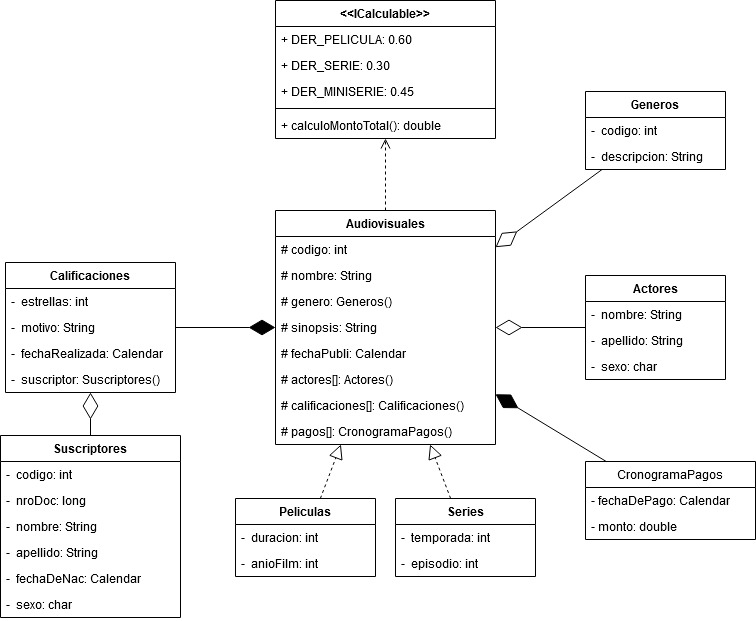
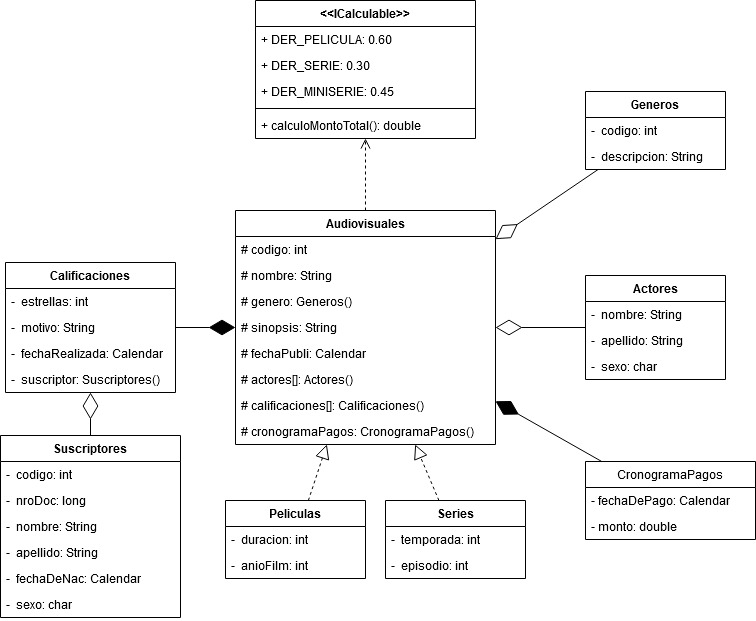
Controllers

diff --git a/src/controller/SuscriptorControlador.java b/src/controller/SuscriptorControlador.java
@@ -38,19 +38,6 @@ public class SuscriptorControlador {
         Json. Este archivo incluye el nombre de la empresa, nombre de la serie, género, nómina de
         actores, sinopsis, temporada, cantidad de episodios y su calificación.*/
 
-        /*TreeSet<Suscriptores> suscriptores = SuscriptoresTXT.bajarSuscriptores();
-        TreeSet<Suscriptores> suscriptoresARecomendar = new TreeSet<Suscriptores>();
-
-        Suscriptores suscriptor;
-        Iterator<Suscriptores> iteratorSuscriptores = suscriptores.iterator();
-        while (iteratorSuscriptores.hasNext()) {
-            suscriptor = iteratorSuscriptores.next();
-            menorA35 = Validaciones.menor(suscriptor.getFechaDeNac(), fechaActual, 35);
-            if (menorA35){
-                suscriptoresARecomendar.add(suscriptor);
-            }
-        }*/
-
         Calendar fechaActual = Calendar.getInstance();
         Calendar fechaAnterior = Validaciones.tresMesesAntes(fechaActual);
 
@@ -63,6 +50,8 @@ public class SuscriptorControlador {
         boolean menorA35;
 
         Audiovisuales mejorAudiovisual = audiovisuales.get(0);
+
+        // Primero recorrer audiovisuales para saber cantidad de episodios por temporada
 
         for (Audiovisuales audiovisual : audiovisuales) {
 
@@ -99,20 +88,6 @@ public class SuscriptorControlador {
         último mes es recomendada a todos los suscriptores mayores de 55 años, mediante otro
         archivo JSon con la estructura similar a la de las series.*/
 
-/*        TreeSet<Suscriptores> suscriptores = SuscriptoresTXT.bajarSuscriptores();
-        TreeSet<Suscriptores> suscriptoresARecomendar = new TreeSet<Suscriptores>();
-
-
-
-        Suscriptores suscriptor;
-        Iterator<Suscriptores> iteratorSuscriptores = suscriptores.iterator();
-        while (iteratorSuscriptores.hasNext()) {
-            suscriptor = iteratorSuscriptores.next();
-            if (Validaciones.mayor(suscriptor.getFechaDeNac(), fechaActual, 55)){
-                suscriptoresARecomendar.add(suscriptor);
-            }
-        }*/
-
         Calendar fechaActual = Calendar.getInstance();
         Calendar fechaAnterior = Validaciones.ultimoMes(fechaActual);
 
@@ -123,6 +98,7 @@ public class SuscriptorControlador {
         int cantidadCalificaciones = 0;
         int promedio;
         int mejorPromedio = -1;
+        boolean mayorA55;
 
         Audiovisuales mejorAudiovisual = audiovisuales.get(0);
 
@@ -136,8 +112,11 @@ public class SuscriptorControlador {
 
                     for (Calificaciones calificacion : audiovisual.getCalificaciones()) {
 
-                        sumaEstrellas += calificacion.getEstrellas();
-                        cantidadCalificaciones++;
+                        mayorA55 = Validaciones.mayor(calificacion.getSuscriptor().getFechaDeNac(), fechaActual, 55);
+                        if (mayorA55) {                                                                                     // Suscriptor es mayor de 55?
+                            sumaEstrellas += calificacion.getEstrellas();
+                            cantidadCalificaciones++;
+                        }
 
                     }
 

diff --git a/src/model/Audiovisuales.java b/src/model/Audiovisuales.java
@@ -12,9 +12,10 @@ public abstract class Audiovisuales implements ICalculable{
     protected Calendar fechaPubli;
     protected TreeSet<Actores> actores;
     protected ArrayList<Calificaciones> calificaciones = new ArrayList<Calificaciones>();
-    protected ArrayList<CronogramaPagos> pagos = new ArrayList<CronogramaPagos>();
+    protected CronogramaPagos cronogramaPagos;
 
     public Audiovisuales() {
+        this.cronogramaPagos = new CronogramaPagos();
     }
 
     public Audiovisuales(int codigo, String nombre, Generos genero, String sinopsis, Calendar fechaPubli, TreeSet<Actores> actores) {
@@ -24,6 +25,7 @@ public abstract class Audiovisuales implements ICalculable{
         this.sinopsis = sinopsis;
         this.fechaPubli = fechaPubli;
         this.actores = actores;
+        this.cronogramaPagos = new CronogramaPagos();
     }
 
     public int getCodigo() {
@@ -89,16 +91,12 @@ public abstract class Audiovisuales implements ICalculable{
         calificaciones.get(indice).setSuscriptor(suscriptor);
     }
 
-    public ArrayList<CronogramaPagos> getPagos() {
-        return pagos;
+    public CronogramaPagos getCronogramaPagos() {
+        return cronogramaPagos;
     }
 
-    public void setPagos(Calendar fechaDePago, double monto) {
-        pagos.add(new CronogramaPagos(fechaDePago, monto));
-    }
-
-    public void setPagos(int indice, Calendar fechaDePago, double monto) {
-        pagos.get(indice).setFechaDePago(fechaDePago);
-        pagos.get(indice).setMonto(monto);
+    public void setCronogramaPagos(int indice, Calendar fechaDePago, double monto) {
+        cronogramaPagos.setFechaDePago(fechaDePago);
+        cronogramaPagos.setMonto(monto);
     }
 }

diff --git a/src/controller/ActoresControlador.java b/src/controller/ActoresControlador.java
@@ -45,14 +45,14 @@ public class ActoresControlador {
     }
 
     public static void actricesRecientes() throws Exception {
-        /*Apellido y nombre de las actrices que hayan filmado una película en los últimos 6 anios.*/
+        /*Apellido y nombre de las actrices que hayan filmado una película en los últimos 2 anios.*/
 
         ArrayList<Audiovisuales> audiovisuales = CalificacionesTXT.bajarCalificaciones();                               // Modificar para sea despues de pagos!!!!
         TreeSet<Actores> actores = ActoresTXT.bajarActores();
         Actores actor;
 
         Calendar fechaActual = Calendar.getInstance();
-        Calendar seisAniosAntes = Validaciones.seisAniosAntes(fechaActual);
+        Calendar seisAniosAntes = Validaciones.dosAniosAntes(fechaActual);
 
 
         for (Audiovisuales audiovisual : audiovisuales) {

diff --git a/src/view/Menu.java b/src/view/Menu.java
@@ -43,7 +43,7 @@ public class Menu {
                                     "de derechos de publicación supere en un 10% el valor ingresado como argumento de la" +
                                     "publicación y todas sus calificaciones del último año sean menores a 3 estrellas.\n");
 
-            Mostrar.mostrar("9. Apellido y nombre de las actrices que hayan filmado una película en los últimos 6 meses.\n");
+            Mostrar.mostrar("9. Apellido y nombre de las actrices que hayan filmado una película en los últimos 2 anios.\n");
 
             Mostrar.mostrar("10. Salir del menu");
 

diff --git a/src/view/Validaciones.java b/src/view/Validaciones.java
@@ -205,8 +205,8 @@ public class Validaciones {
         return fechaActual;
     }
 
-    public static Calendar seisAniosAntes(Calendar fechaActual) {
-        fechaActual.add(Calendar.YEAR, -6);
+    public static Calendar dosAniosAntes(Calendar fechaActual) {
+        fechaActual.add(Calendar.YEAR, -2);
         return fechaActual;
     }
 
